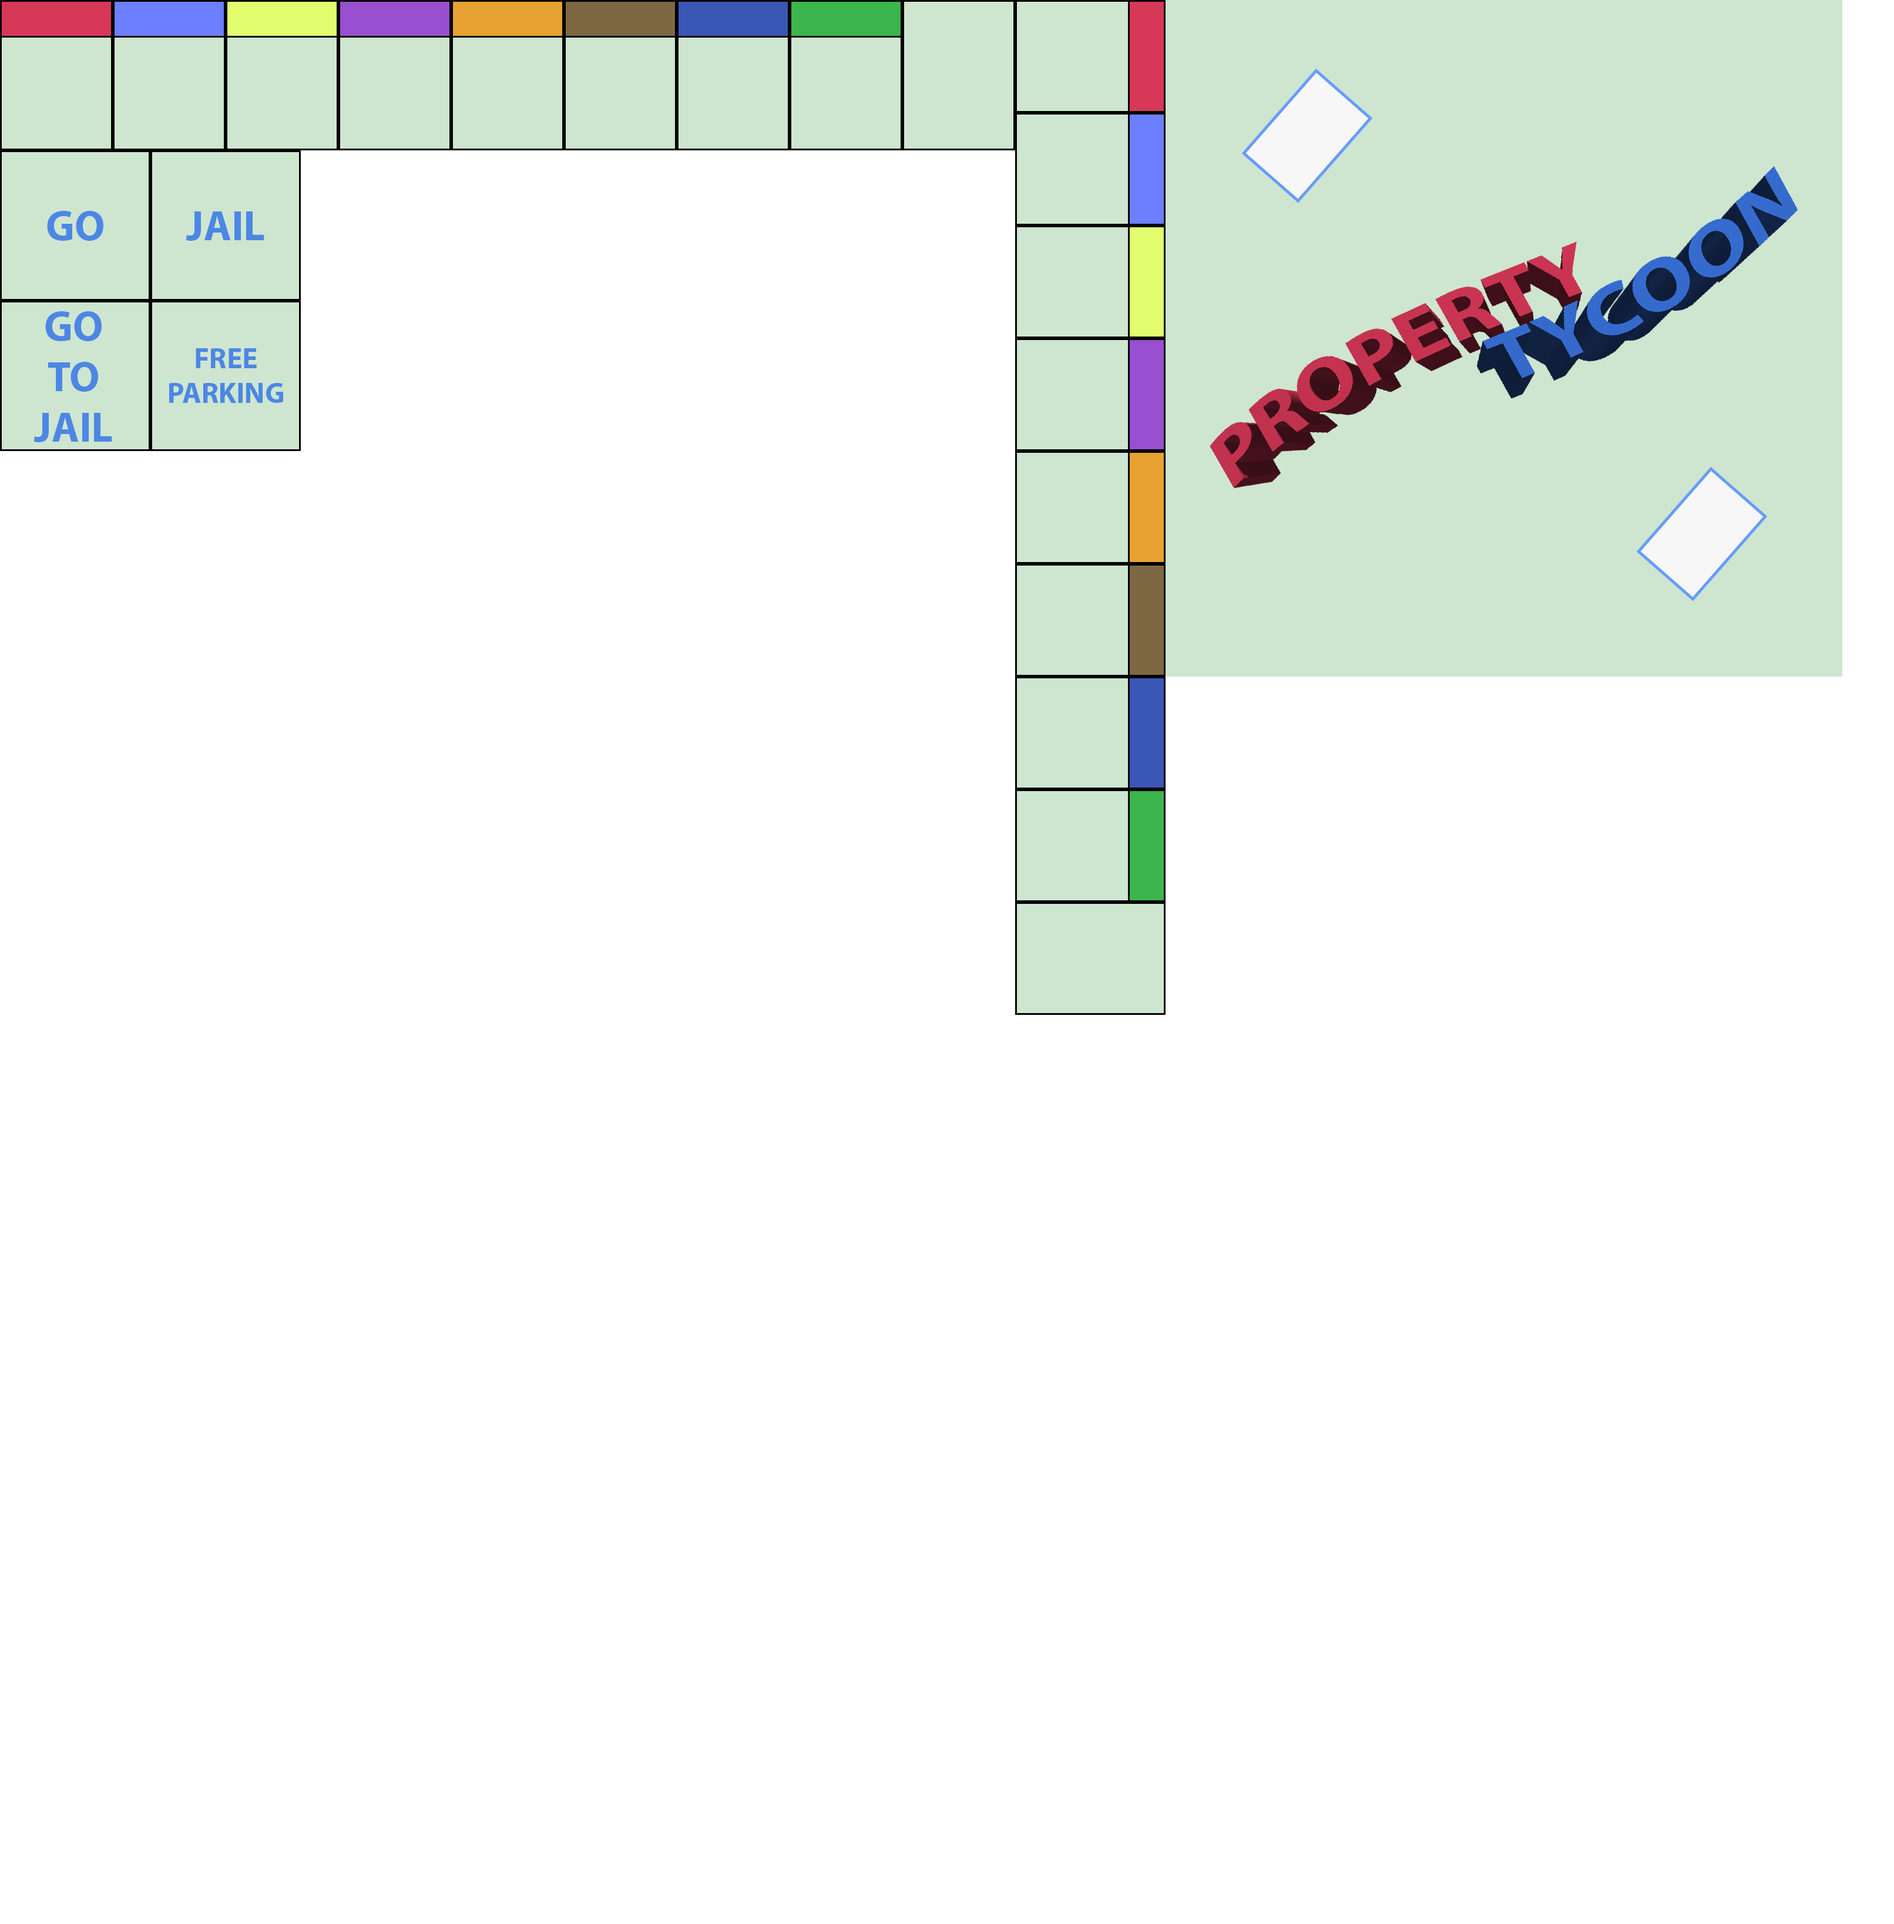
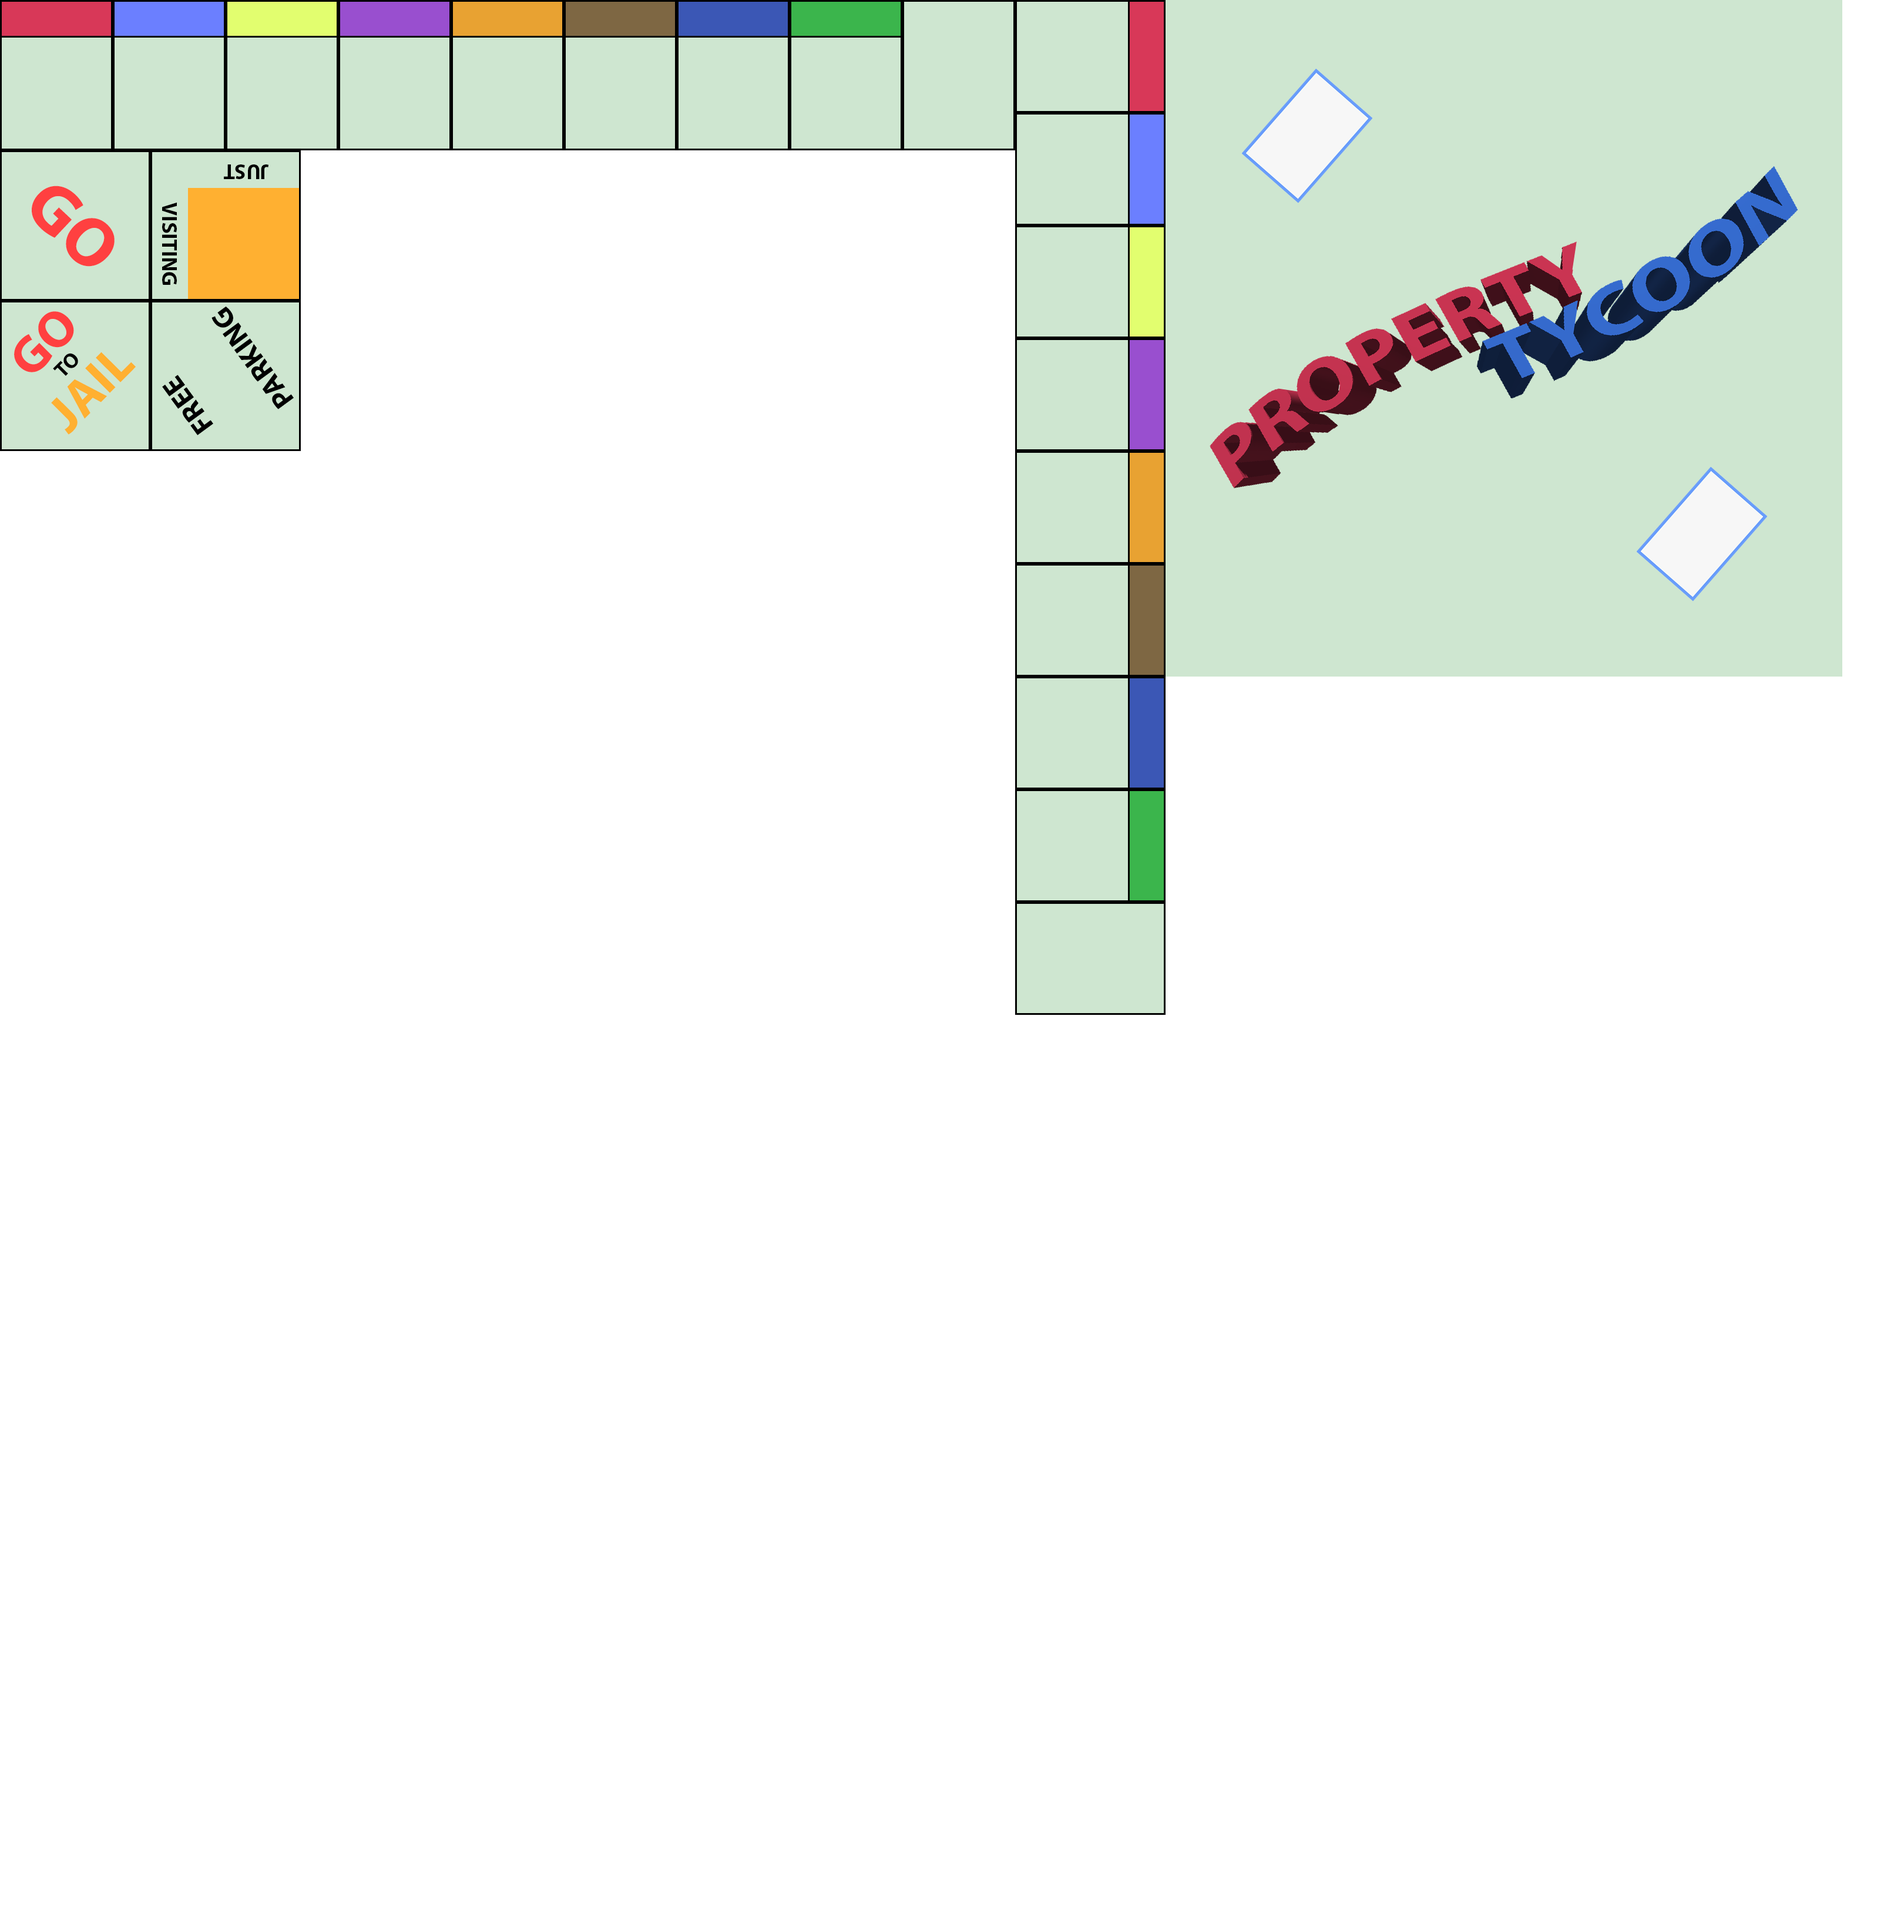
player balanc indicator

Changed region(s): [[0.0, 0.0934, 0.1551, 0.2491]]

diff --git a/core/src/Screens/GameScreen.java b/core/src/Screens/GameScreen.java
@@ -213,12 +213,16 @@ public class GameScreen implements Screen {
             if (i == 1 || i == 11 || i == 21 || i == 31) {
                 angle -= 90;
             }
+
             Tile tile = gameCon.getBoard().getTile(i);
-            Coordinate c = tile.getCenterLabelCoordinate();
 
-            RotatableLabel label = new RotatableLabel(new Label(tile.getTileName(), gameScreenSkin), c.getX(), c.getY(), angle, 1);
+            if(tile instanceof Property) {
+                Coordinate c = tile.getCenterLabelCoordinate();
 
-            labelStage.addActor(label);
+                RotatableLabel label = new RotatableLabel(new Label(tile.getTileName(), gameScreenSkin), c.getX(), c.getY(), angle, 1);
+
+                labelStage.addActor(label);
+            }
         }
     }
 
@@ -593,8 +597,7 @@ public class GameScreen implements Screen {
         balances = new Table();
         playerBalanceLabels = new ArrayList<>();
         for (Player player: game.players) {
-
-
+            
             Label l = new Label(player.getName() + ": $"+ player.getMoney(), gameScreenSkin);
             playerBalanceLabels.add(l);
 

diff --git a/core/src/Tiles/Tile.java b/core/src/Tiles/Tile.java
@@ -17,8 +17,8 @@ public class Tile implements TileInterface {
     private boolean isBuyable = false;
     ArrayList<Player> tilePlayers = new ArrayList<>();
     private Coordinate centerLabelCoordinate;
-    private ArrayList<Coordinate> playerPosCoordinates;
-    private ArrayList<Coordinate> allCoordinates;
+    protected ArrayList<Coordinate> playerPosCoordinates;
+    protected ArrayList<Coordinate> allCoordinates;
     public Tile(){
         tileName = "";
     }
@@ -113,7 +113,9 @@ public class Tile implements TileInterface {
     public void setCoordinates(ArrayList<Coordinate> coordinates){
         playerPosCoordinates = new ArrayList<>();
         for(int i =0 ; i < players.length;i++) {
-            playerPosCoordinates.add(coordinates.get(i));
+            if (i != 3 && i != 7 && i != 11) {
+                playerPosCoordinates.add(coordinates.get(i));
+            }
         }
         allCoordinates = coordinates;
         Coordinate labelCoordinate = new Coordinate(0,0);

diff --git a/core/src/Tiles/Jail.java b/core/src/Tiles/Jail.java
@@ -1,4 +1,44 @@
 package Tiles;
 
+import misc.Coordinate;
+
+import java.util.ArrayList;
+
+import static com.propertytycoonmakers.make.PropertyTycoon.players;
+
 public class Jail extends Tile {
+
+    ArrayList<Coordinate> jailCoordinates;
+
+    @Override
+    public void setCoordinates(ArrayList<Coordinate> coordinates){
+        this.playerPosCoordinates = new ArrayList<>();
+        jailCoordinates = new ArrayList<>();
+
+        for (int i =0; i < 15 ; i++) {
+
+            if (i == 0 || i == 4 || i == 8 || i == 12 || i == 13 || i == 14 || i == 15) {
+
+                playerPosCoordinates.add(coordinates.get(i));
+
+            } else {
+
+                jailCoordinates.add(coordinates.get(i));
+
+
+            }
+        }
+
+        allCoordinates = coordinates;
+
+    }
+
+    public Coordinate getNextJailCoordinate(){
+        Coordinate coordinate = jailCoordinates.remove(0);
+        jailCoordinates.add(coordinate);
+        return coordinate;
+    }
+
+
+
 }

diff --git a/core/src/main/GameBoard.java b/core/src/main/GameBoard.java
@@ -99,8 +99,17 @@ public class GameBoard implements GameBoardInterface {
         playerPos.put(player, pos);
         board[pos].addPlayer(player);
         System.out.println("Setting Player coordinates");
-        player.setCurrentCoordinates(board[playerPos.get(player)].getAvailableCoordinates());
-    }
+
+        Tile tile = board[playerPos.get(player)];
+
+        if(player.getIsInJail() && pos == 10 && tile instanceof Jail){
+
+            player.setCurrentCoordinates((((Jail) tile).getNextJailCoordinate()));
+
+        }else{
+
+        player.setCurrentCoordinates(tile.getAvailableCoordinates());
+    }}
 
     /**
      * movePlayer uses context to tell how far a player should move, and what space to move them to
@@ -140,6 +149,8 @@ public class GameBoard implements GameBoardInterface {
      */
     public void sendToJail() {
         currentPlayer.setInJail(true);
+
+
         setPlayerPos(currentPlayer, 10);
     }
 

diff --git a/core/src/Tiles/Go.java b/core/src/Tiles/Go.java
@@ -1,4 +1,14 @@
 package Tiles;
 
+import main.Player;
+import misc.Coordinate;
+
+import java.util.ArrayList;
+
+import static com.propertytycoonmakers.make.PropertyTycoon.players;
+
+
 public class Go extends Tile {
+
+
 }
